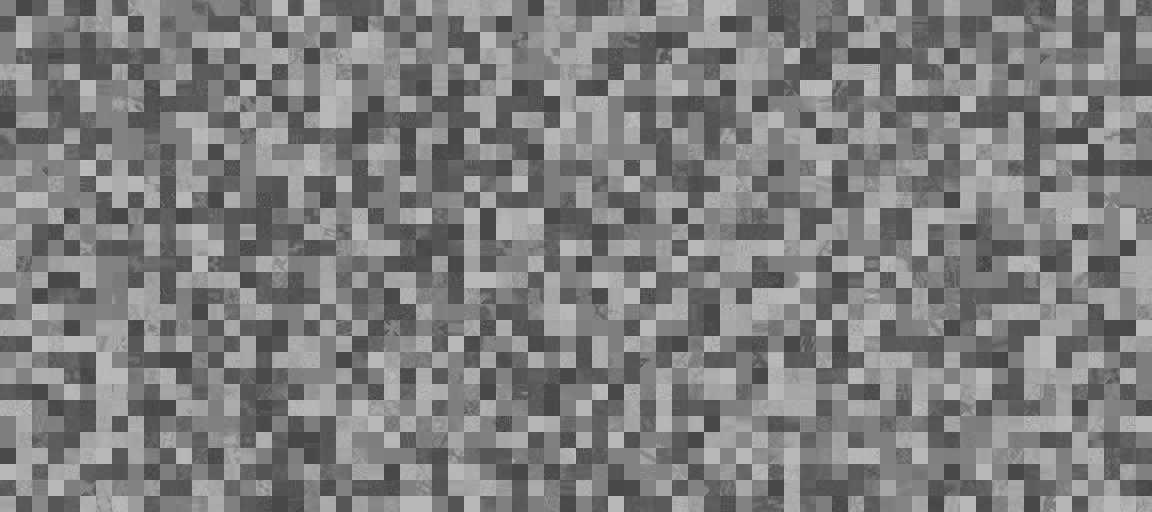
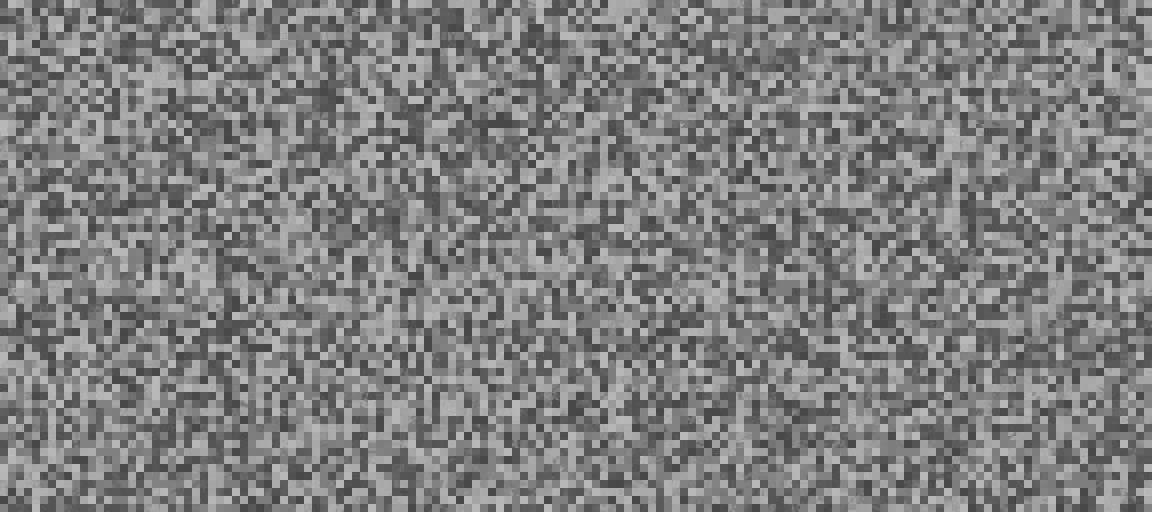
Added random quality in Runner

diff --git a/ImageScrambling/src/Runner.java b/ImageScrambling/src/Runner.java
@@ -10,6 +10,7 @@ import java.io.IOException;
 import java.io.InputStream;
 import java.nio.file.Files;
 import java.nio.file.StandardCopyOption;
+import java.util.Random;
 
 import javax.imageio.ImageIO;
 import javax.imageio.stream.FileImageOutputStream;
@@ -61,17 +62,16 @@ public class Runner {
 		FileUtils.cleanDirectory(new File("split")); 
 
 		new File("Decrypt").mkdir();
-		int blockSize = 16;         							//Block size
+		int blockSize = 8;         							//Block size
 		BlockScrambling.splitImage(output,blockSize);
 		BlockScrambling.join();
 
 
-
+		
 		//Compression of image scrambled
-		
-		
 		Image image = ImageIO.read(new File("img/join.jpg"));
-		int quality = 50;                      
+		int quality = new Random().nextInt(101);
+		System.out.println("quality "+quality);
 		FileOutputStream dataOut = new FileOutputStream (new File("img/compressed.jpg"));
 		JPEGEncoder encoder = new JPEGEncoder(image, quality, dataOut);
 		encoder.Compress();
@@ -79,7 +79,7 @@ public class Runner {
 		
 
 		/*
-		BufferedImage img = ImageIO.read(new File("img/ucid.jpg"));
+		BufferedImage img = ImageIO.read(new File("img/join.jpg"));
 		FileOutputStream dataOut = new FileOutputStream (new File("img/compressed.jpg"));
 		JpegEncoder encr = new JpegEncoder();
 		encr.setQuality(80);
